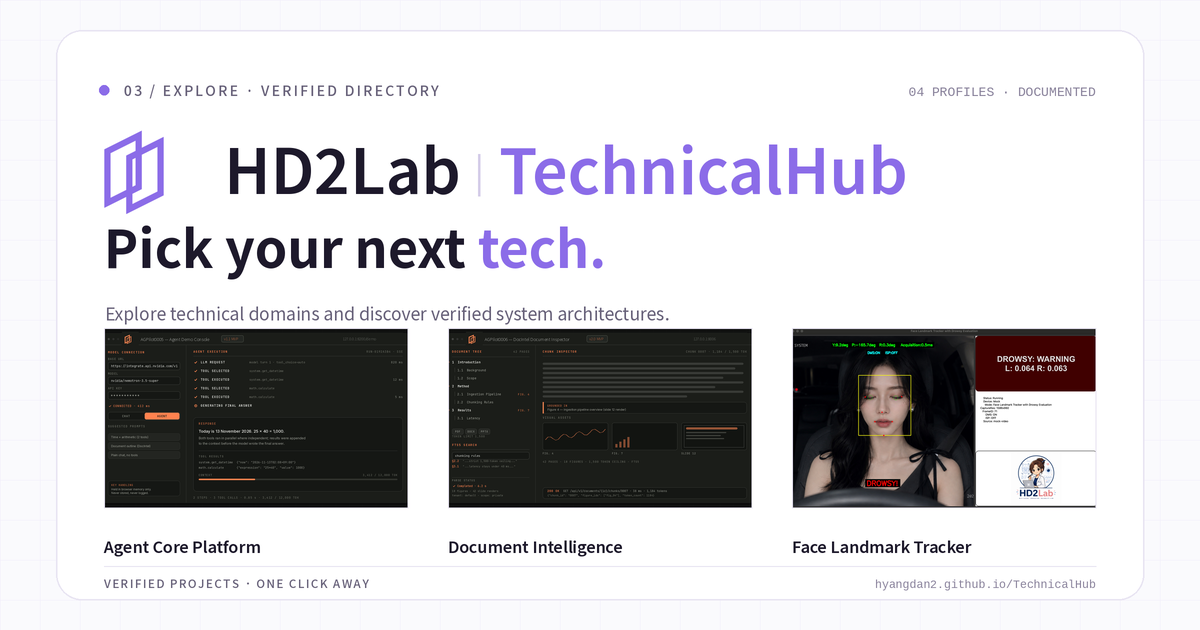
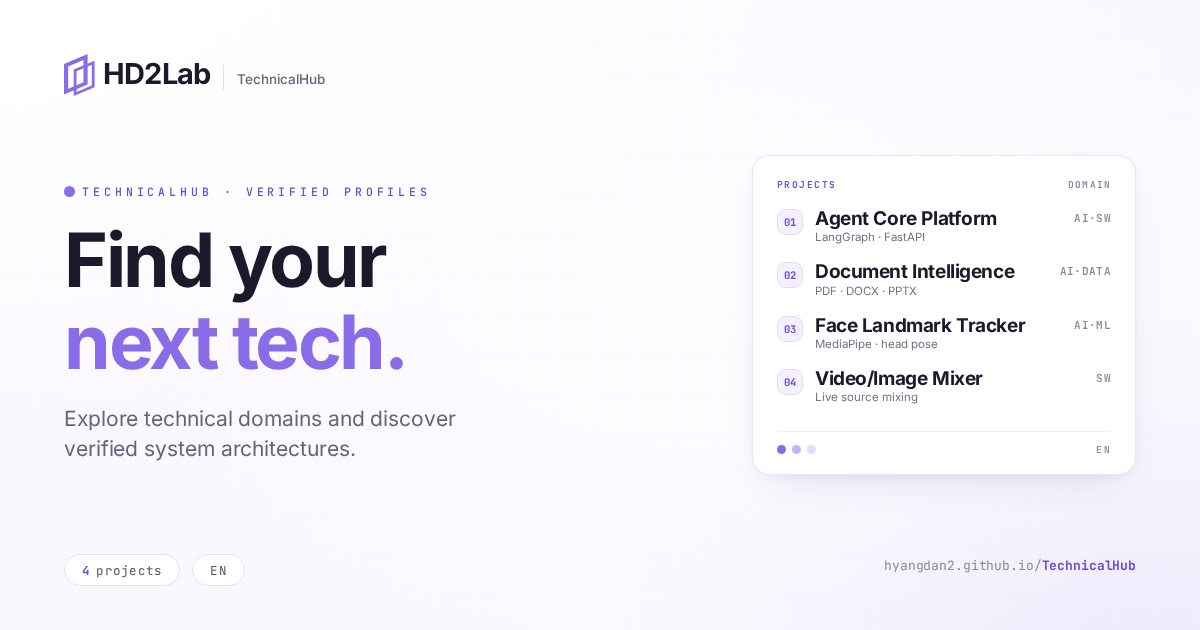
feat(og): unify the share card with the HD2's Diary card style (#27)
- Regenerated the 1200x630 share card on the Diary layout: Soft Iris wash,
  dual-skew .mark with the HD2Lab | <hub> header, Inter + JetBrains Mono,
  headline / description / chips on the left, one white summary card on the right.
- The summary card now lists this hub's real content and counts.
- og:image / twitter:image cache buster -> ?v=20261121-og (build template or head).
- og:title, og:description, the favicon set and the GoatCounter snippet unchanged.

diff --git a/index.html b/index.html
@@ -12,8 +12,8 @@
     <meta property="og:title" content="TechnicalHub — Verified Project Directory">
     <meta property="og:description" content="Explore technical domains and discover verified system architectures.">
     <meta property="og:url" content="https://hyangdan2.github.io/TechnicalHub/">
-    <meta property="og:image" content="https://hyangdan2.github.io/TechnicalHub/assets/branding/share.png?v=20261116-soft-iris">
-    <meta property="og:image:secure_url" content="https://hyangdan2.github.io/TechnicalHub/assets/branding/share.png?v=20261116-soft-iris">
+    <meta property="og:image" content="https://hyangdan2.github.io/TechnicalHub/assets/branding/share.png?v=20261121-og">
+    <meta property="og:image:secure_url" content="https://hyangdan2.github.io/TechnicalHub/assets/branding/share.png?v=20261121-og">
     <meta property="og:image:type" content="image/png">
     <meta property="og:image:width" content="1200">
     <meta property="og:image:height" content="630">
@@ -21,7 +21,7 @@
     <meta name="twitter:card" content="summary_large_image">
     <meta name="twitter:title" content="TechnicalHub — Verified Project Directory">
     <meta name="twitter:description" content="Explore technical domains and discover verified system architectures.">
-    <meta name="twitter:image" content="https://hyangdan2.github.io/TechnicalHub/assets/branding/share.png?v=20261116-soft-iris">
+    <meta name="twitter:image" content="https://hyangdan2.github.io/TechnicalHub/assets/branding/share.png?v=20261121-og">
     <link rel="icon" href="./assets/branding/favicon.svg" type="image/svg+xml">
     <link rel="icon" href="./assets/branding/favicon-32x32.png" sizes="32x32" type="image/png">
     <link rel="apple-touch-icon" href="./assets/branding/apple-touch-icon.png" sizes="180x180">

diff --git a/docs/CHANGELOG.md b/docs/CHANGELOG.md
@@ -1,5 +1,10 @@
 # Changelog
 
+## 2026-11-21 — Diary-style social card
+
+- Replaced `assets/branding/share.png` (1200×630) with the `HD2's Diary` share-card layout: Soft Iris wash, dual-skew `.mark` + `HD2Lab | TechnicalHub` header, `Find your / next tech.` headline, the hero description and two chips on the left, and one white summary card on the right listing the four verified profiles with their stack line and domain (Agent Core Platform · AI/SW, Document Intelligence · AI/Data, Face Landmark Tracker · AI/ML, Video/Image Mixer · SW).
+- `og:image` / `twitter:image` cache buster → `?v=20261121-og` in `index.html`. `og:title`, `og:description`, the favicon set, the per-profile social cards, and the GoatCounter snippet are unchanged.
+
 ## 2026-11-18 — Shared hub navigation (desktop tabs + mobile drawer)
 
 - Replaced the hub header link row (`Browse Projects`, `ApplicationHub ↗`, `GameHub ↗`, `Web-HQ ↗`) with the Web-HQ category tabs: `Home · Apps · Play · Tech · Diary · About` in `.header-nav`, with `Tech` carrying `.is-active` and `aria-current="page"`. The separate Web-HQ action link is gone now that `Home` and the drawer cover it.
